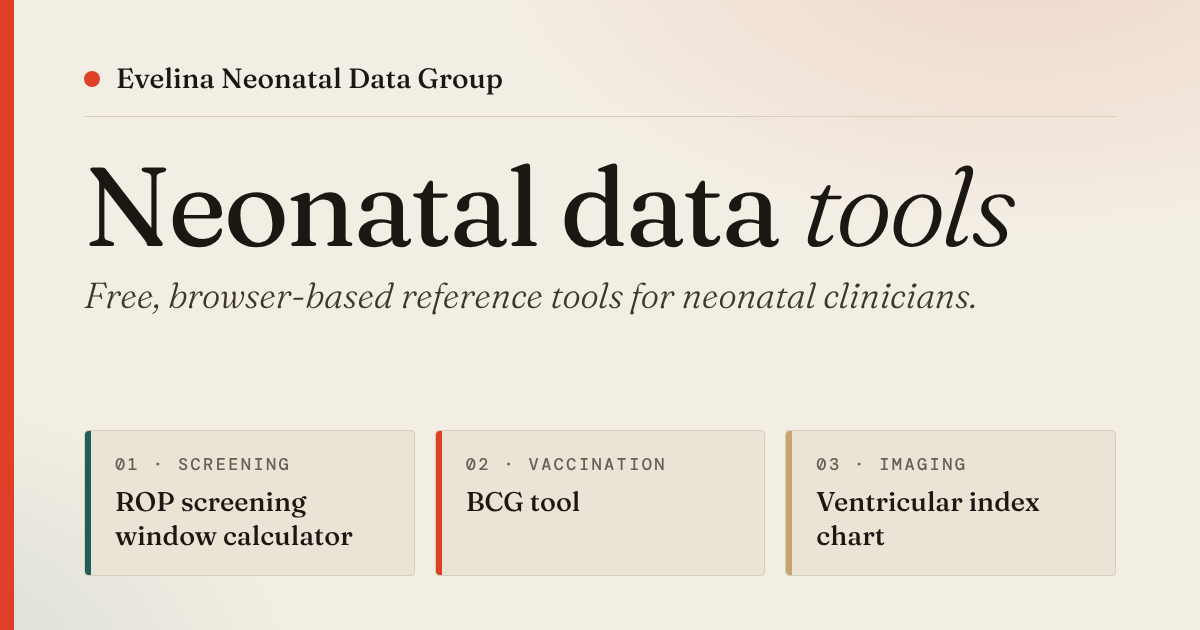
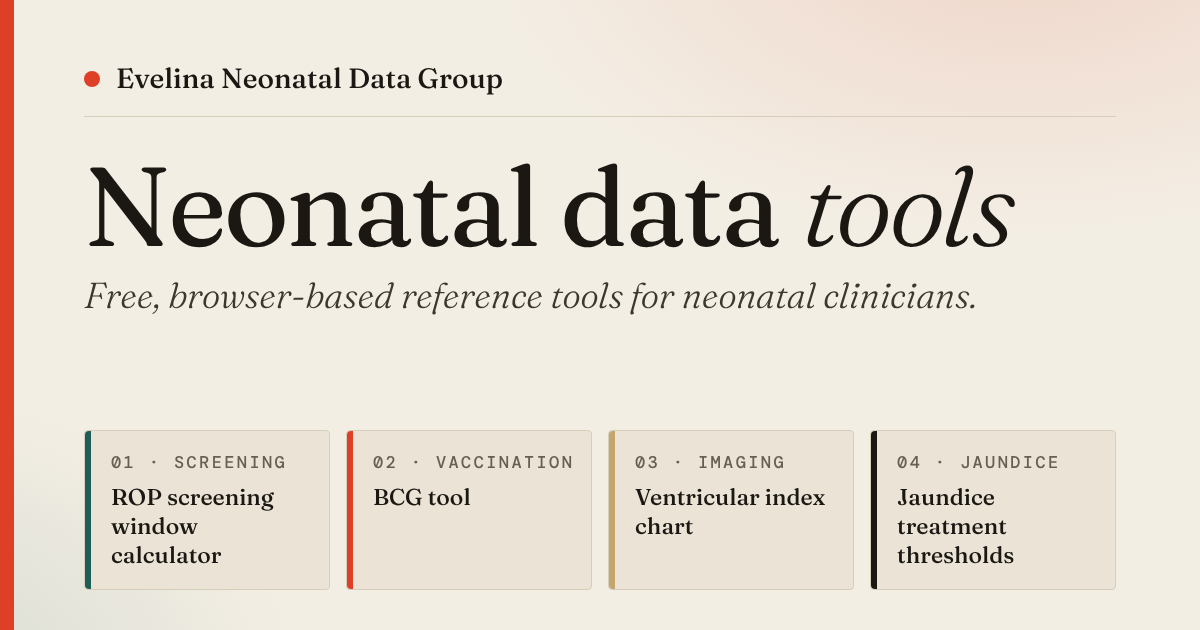
Add the jaundice treatment thresholds tool to the landing page (#4)
Fourth card (04, ink accent) linking to the live tool and its repo; README
table, meta description and share image updated to match.

Claude-Session: https://claude.ai/code/session_01VCRZ1X7ZCvtenKqNJ8ge2P

Changed region(s): [[0.0925, 0.6937, 0.8942, 0.9349], [0.0617, 0.9048, 0.0925, 0.9349]]

diff --git a/index.html b/index.html
@@ -4,7 +4,7 @@
 <meta charset="utf-8">
 <meta name="viewport" content="width=device-width, initial-scale=1">
 <title>Evelina Neonatal Data Group</title>
-<meta name="description" content="Browser-based reference tools from the Evelina Neonatal Data Group: ROP screening window calculator, BCG TB-incidence check and ventricular index chart.">
+<meta name="description" content="Browser-based reference tools from the Evelina Neonatal Data Group: ROP screening window calculator, BCG TB-incidence check, ventricular index chart and jaundice treatment thresholds.">
 <meta name="theme-color" media="(prefers-color-scheme: light)" content="#f3eee4">
 <meta name="theme-color" media="(prefers-color-scheme: dark)" content="#1b2227">
 <script>
@@ -39,7 +39,7 @@
 <meta property="og:image" content="https://drhammadkhan.github.io/evelina-neonatal-data-group/og-image.png">
 <meta property="og:image:width" content="1200">
 <meta property="og:image:height" content="630">
-<meta property="og:image:alt" content="Evelina Neonatal Data Group: ROP screening window calculator, BCG tool and ventricular index chart">
+<meta property="og:image:alt" content="Evelina Neonatal Data Group: ROP screening window calculator, BCG tool, ventricular index chart and jaundice treatment thresholds">
 <meta name="twitter:card" content="summary_large_image">
 <meta name="twitter:image" content="https://drhammadkhan.github.io/evelina-neonatal-data-group/og-image.png">
 <link rel="icon" href="favicon.svg" type="image/svg+xml">
@@ -120,9 +120,9 @@ h1 em{font-style:italic;font-weight:300}
   transition:transform .18s var(--ease-out),border-color .18s;
   animation:rise .45s var(--ease-out) both;
 }
-.tool:nth-child(2){animation-delay:60ms} .tool:nth-child(3){animation-delay:120ms}
+.tool:nth-child(2){animation-delay:60ms} .tool:nth-child(3){animation-delay:120ms} .tool:nth-child(4){animation-delay:180ms}
 .tool::after{content:"";position:absolute;left:0;top:0;bottom:0;width:5px;background:var(--accent);border-radius:4px 0 0 4px}
-.tool.hot{--accent:var(--hot)} .tool.cool{--accent:var(--cool)} .tool.amber{--accent:var(--amber)}
+.tool.hot{--accent:var(--hot)} .tool.cool{--accent:var(--cool)} .tool.amber{--accent:var(--amber)} .tool.ink{--accent:var(--ink)}
 .tool .num{font:500 .72rem/1 var(--mono);letter-spacing:.14em;text-transform:uppercase;color:var(--mute)}
 .tool h2{font-weight:500;font-size:1.45rem;line-height:1.2;letter-spacing:-.01em;margin:8px 0 6px;font-variation-settings:"opsz" 72}
 .tool h2 a{color:inherit;text-decoration:none}
@@ -175,6 +175,12 @@ footer a{color:var(--ink);text-underline-offset:3px}
       <h2><a href="https://drhammadkhan.github.io/levene-vi-chart/">Ventricular index chart</a></h2>
       <p>Plot right and left ventricular index against corrected gestational age on the Levene (1981) reference chart. Patient data stays on your device.</p>
       <div class="links"><span class="go">Open tool &rarr;</span><a class="src" href="https://github.com/drhammadkhan/levene-vi-chart">Source on GitHub</a></div>
+    </li>
+    <li class="tool ink">
+      <span class="num">04 &middot; Neonatal jaundice</span>
+      <h2><a href="https://drhammadkhan.github.io/jaundice-thresholds/">Jaundice treatment thresholds</a></h2>
+      <p>Plot a baby&rsquo;s serum bilirubin against the NICE CG98 phototherapy and exchange transfusion lines for their gestational age.</p>
+      <div class="links"><span class="go">Open tool &rarr;</span><a class="src" href="https://github.com/drhammadkhan/jaundice-thresholds">Source on GitHub</a></div>
     </li>
   </ul>
 

diff --git a/README.md b/README.md
@@ -7,6 +7,7 @@ Landing page for the group's browser-based reference tools: **https://drhammadkh
 | ROP screening window calculator | [open](https://drhammadkhan.github.io/ROP-Calculator/) | [ROP-Calculator](https://github.com/drhammadkhan/ROP-Calculator) |
 | BCG tool (TB incidence check) | [open](https://drhammadkhan.github.io/tb-rate-check/) | [tb-rate-check](https://github.com/drhammadkhan/tb-rate-check) |
 | Ventricular index chart | [open](https://drhammadkhan.github.io/levene-vi-chart/) | [levene-vi-chart](https://github.com/drhammadkhan/levene-vi-chart) |
+| Jaundice treatment thresholds | [open](https://drhammadkhan.github.io/jaundice-thresholds/) | [jaundice-thresholds](https://github.com/drhammadkhan/jaundice-thresholds) |
 
 Static site, no build step: `index.html`, `favicon.svg`, `og-image.png` and `fonts/` (the workflow publishes exactly these) (Fraunces and DM Mono, SIL Open Font License, self-hosted).
 
